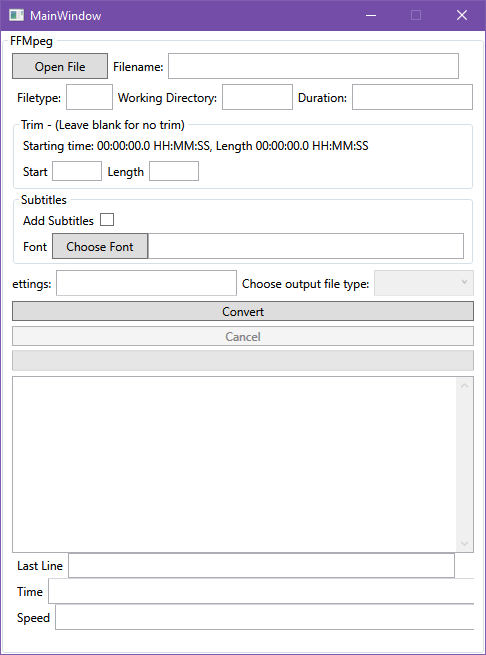
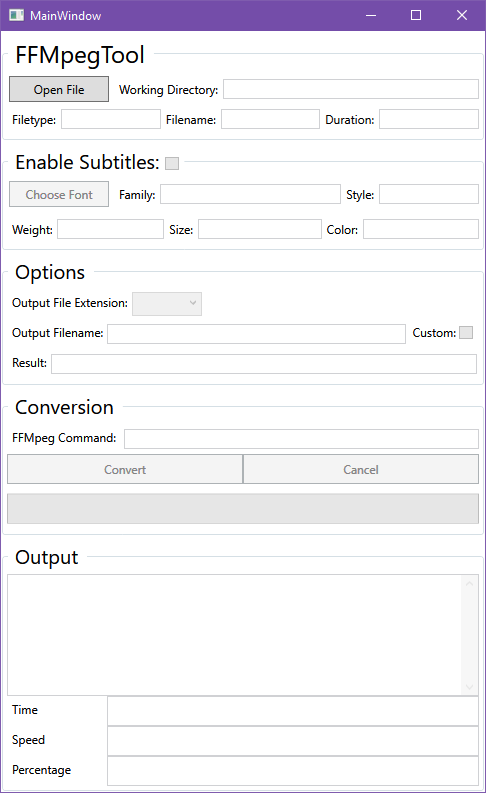
Updated readme with new todos and screenshot

diff --git a/README.md b/README.md
@@ -30,16 +30,14 @@ Visual Studio 2019 - (An earlier version might work.)
 
 ![](MainWindow.png)
 
+
 ### To Do
 
 - [ ] Add cutting out sections of video.
 - [ ] External subtitles.
 - [ ] Resize/Cropping.
-- [ ] Custom output type. (defaults to avi currently)
 - [ ] Add comments to code.
-- [ ] Clean up layout.
-- [ ] List functionality and code snippets avaliable
-- [ ] Add filename output name textbox.
+- [ ] List functionality and code snippets available
 
 ### Contains
 
